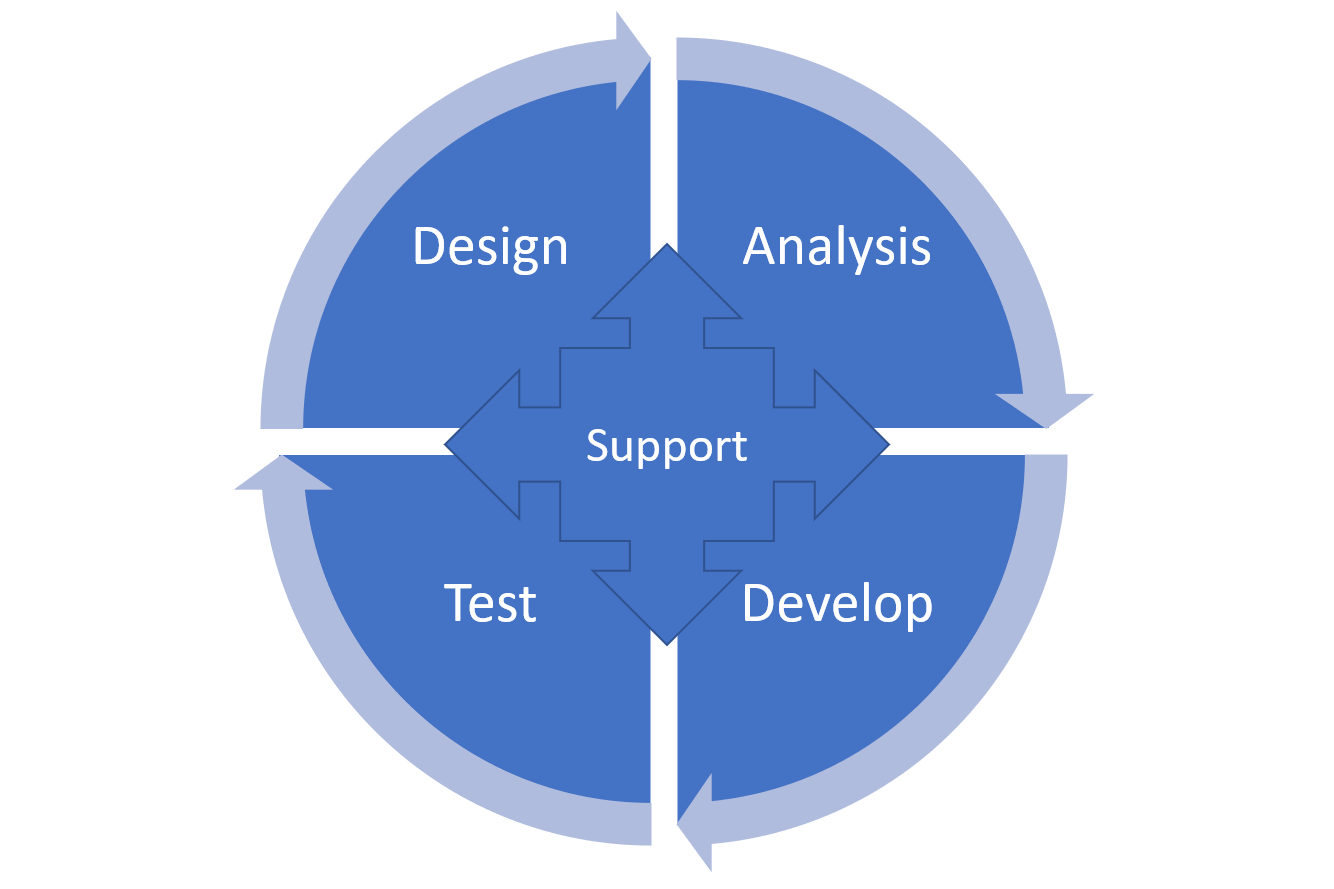
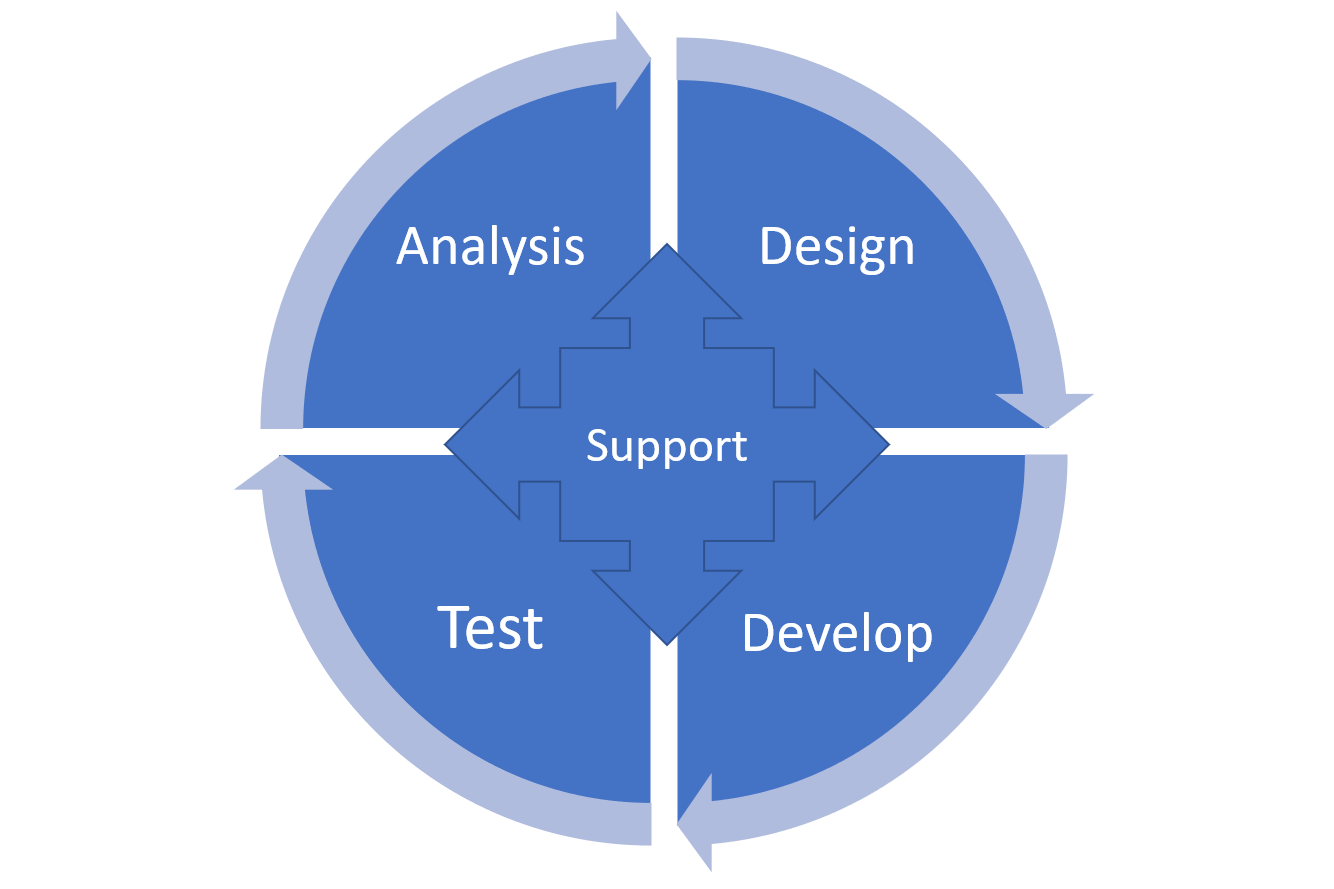
Small Update
Updated some numbers/%
Changed the position of the Dev Cycle order.

diff --git a/index.html b/index.html
@@ -914,11 +914,11 @@
                             <h2 class="margin-b-0">Skills</h2>
                             <p></p>
                             <h5> Who am I beyond my University Degree and technical skills. </h5>
-                            <p> I have social and soft skill, adquired in work and Multi-cultural experiences. </p>
-                            <p> Worked with over 5 different nationalities across 3 continents. </p>
+                            <p> I have social and soft skill, adquired in working in Multi-cultural experiences. </p>
+                            <p> Worked with 6 different countries across 3 continents. </p>
                             <p> Over 3 years dealing with Client Requirements and Operations/Business meetings </p>
-                            <p> Over 3 years in direct Client Support </p>
-                            <p> Over 30 weeks traveling and working on site experience </p>
+                            <p> Over 3 years in direct Client Support/Comunication </p>
+                            <p> Over 35 weeks traveling and working abroad on site experience </p>
                             <p> Availability and Interest in travel and work abroad </p>
                         </div>
                     </div>
@@ -942,47 +942,47 @@
                             </div>
                         </div>
                         <div class="progress-box">
-                            <h5> Spanish <span class="color-heading pull-right">70%</span></h5>
+                            <h5> Spanish <span class="color-heading pull-right">75%</span></h5>
                             <div class="progress">
-                                <div class="progress-bar bg-color-base" role="progressbar" data-width="70"></div>
+                                <div class="progress-bar bg-color-base" role="progressbar" data-width="75"></div>
                             </div>
                         </div>
                         
                         <h4> Professional Soft Skills </h4>
                         <div class="progress-box">
-                            <h5> Agile Principles and SCRUM Framework <span class="color-heading pull-right">40%</span></h5>
+                            <h5> Agile Principles and SCRUM Framework <span class="color-heading pull-right">30%</span></h5>
                             <div class="progress">
-                                <div class="progress-bar bg-color-base" role="progressbar" data-width="40"></div>
+                                <div class="progress-bar bg-color-base" role="progressbar" data-width="30"></div>
                             </div>
                         </div>
                         <div class="progress-box">
-                            <h5> DevOps <span class="color-heading pull-right">60%</span></h5>
+                            <h5> DevOps <span class="color-heading pull-right">65%</span></h5>
                             <div class="progress">
-                                <div class="progress-bar bg-color-base" role="progressbar" data-width="60"></div>
+                                <div class="progress-bar bg-color-base" role="progressbar" data-width="65"></div>
                             </div>
                         </div>
                         <div class="progress-box">
-                            <h5> Direct, Pragmatic, Assertive <span class="color-heading pull-right">75%</span></h5>
+                            <h5> Direct, Pragmatic, Assertive <span class="color-heading pull-right">65%</span></h5>
+                            <div class="progress">
+                                <div class="progress-bar bg-color-base" role="progressbar" data-width="65"></div>
+                            </div>
+                        </div>
+                        <div class="progress-box">
+                            <h5> Self organized and methodical <span class="color-heading pull-right">90%</span></h5>
+                            <div class="progress">
+                                <div class="progress-bar bg-color-base" role="progressbar" data-width="90"></div>
+                            </div>
+                        </div>
+                        <div class="progress-box">
+                            <h5> Easiness in acceptance of change requests. <span class="color-heading pull-right">75%</span></h5>
                             <div class="progress">
                                 <div class="progress-bar bg-color-base" role="progressbar" data-width="75"></div>
                             </div>
                         </div>
                         <div class="progress-box">
-                            <h5> Self organized and methodical <span class="color-heading pull-right">80%</span></h5>
+                            <h5> Easiness and adaptability to new methodologies. <span class="color-heading pull-right">95%</span></h5>
                             <div class="progress">
-                                <div class="progress-bar bg-color-base" role="progressbar" data-width="80"></div>
-                            </div>
-                        </div>
-                        <div class="progress-box">
-                            <h5> Easiness in acceptance of change requests. <span class="color-heading pull-right">70%</span></h5>
-                            <div class="progress">
-                                <div class="progress-bar bg-color-base" role="progressbar" data-width="70"></div>
-                            </div>
-                        </div>
-                        <div class="progress-box">
-                            <h5> Easiness and adaptability to new methodologies. <span class="color-heading pull-right">90%</span></h5>
-                            <div class="progress">
-                                <div class="progress-bar bg-color-base" role="progressbar" data-width="90"></div>
+                                <div class="progress-bar bg-color-base" role="progressbar" data-width="95"></div>
                             </div>
                         </div>
                         
